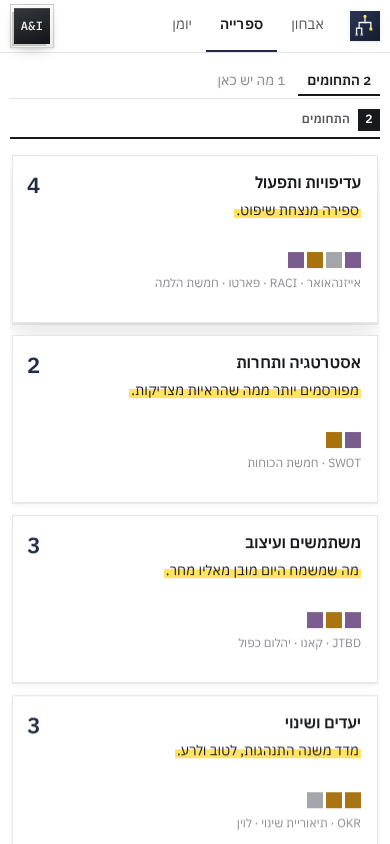
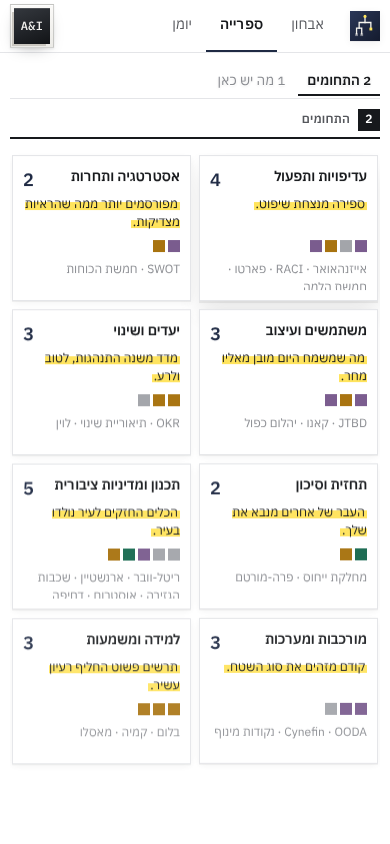
Premortem becomes the counter model for reference class forecasting
Approved by Anat. Reference class says how much you will overrun;
the premortem asks why, before starting.

Claude-Session: https://claude.ai/code/session_018qeN19UF5UhFt8VCqdemXm

diff --git a/tests/matcher.test.js b/tests/matcher.test.js
@@ -20,7 +20,7 @@ test('תקציב פרויקט: ארגון, מסובך, יש נתונים -> תח
   assert.equal(r.status, 'ok');
   assert.equal(r.state.id, 'reference-class');
   assert.equal(r.primary[0].id, 'reference-class');
-  assert.equal(r.counter.model.id, 'cynefin');
+  assert.equal(r.counter.model.id, 'premortem');
   assert.equal(r.notes.length, 0);
   assert.equal(r.fit, 100);
 });
